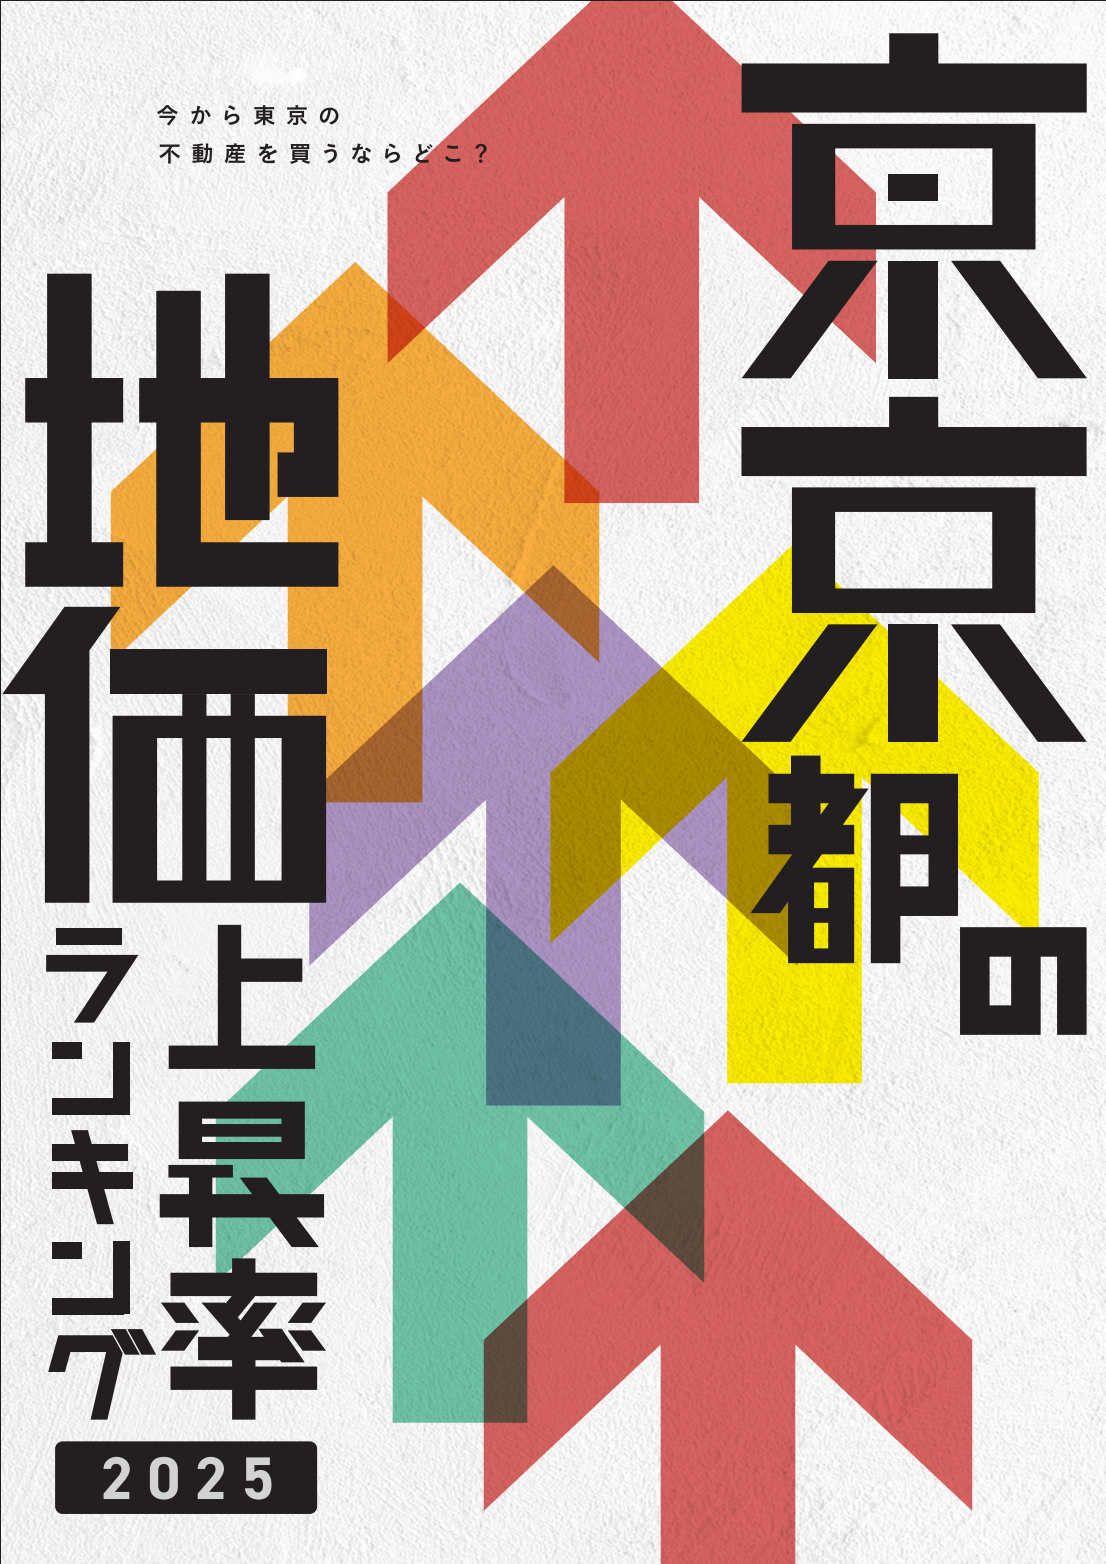
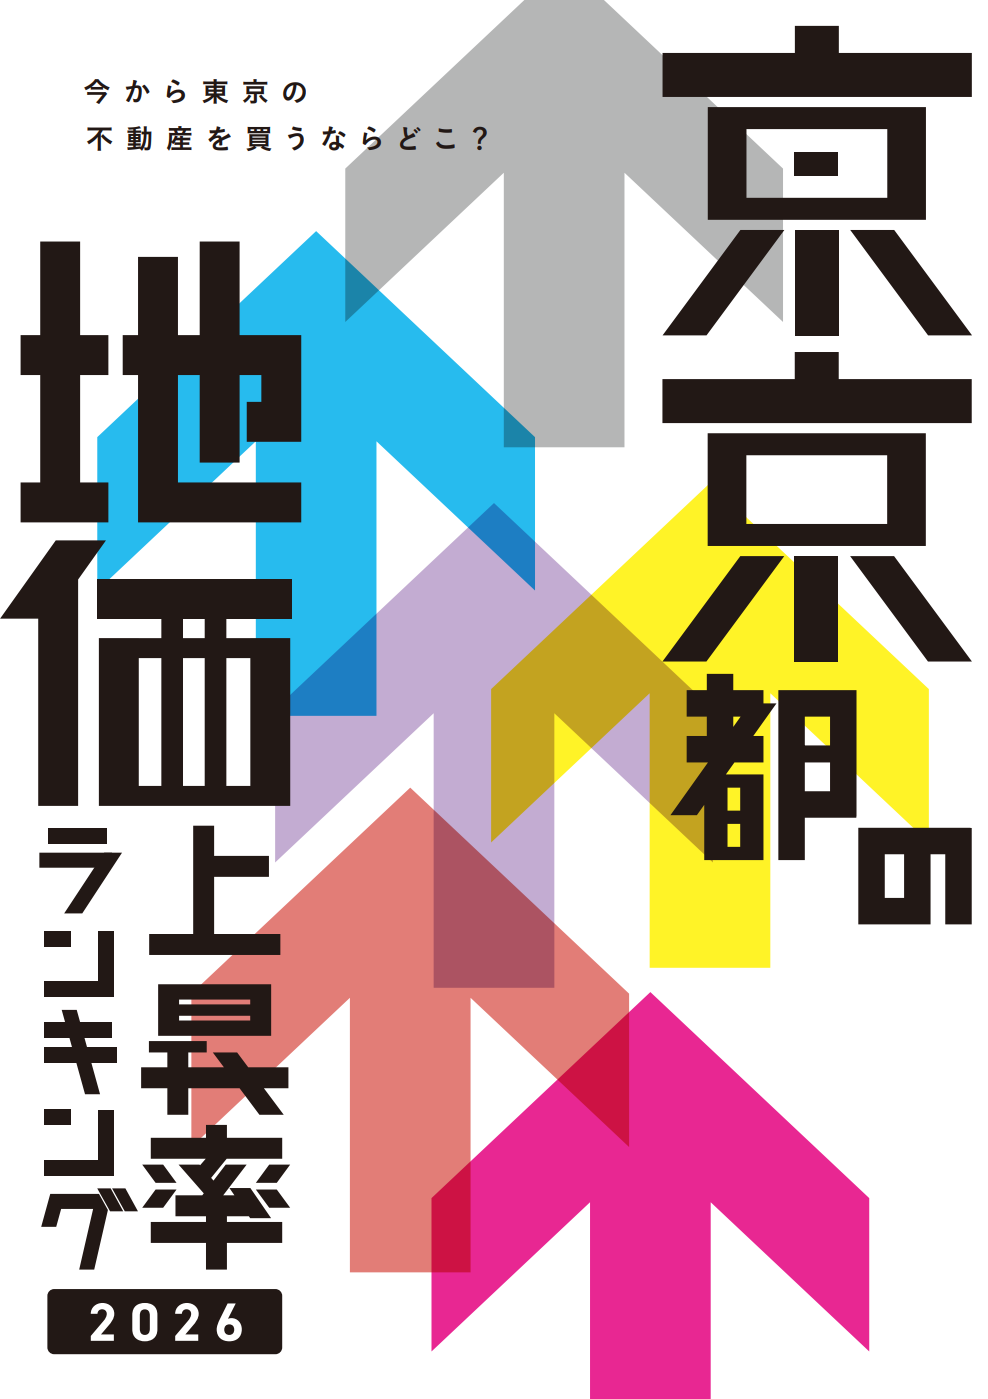
fix: update ebook viewer layout and styles for improved UI consistency

diff --git a/z_ebook/js/app.js b/z_ebook/js/app.js
@@ -6,9 +6,8 @@ const layoutHTML = `
         <div class="header-left">
             <button id="tocBtn" class="btn-icon" title="目次を開く">
                 <i class="fa-solid fa-list-ul"></i>
-                <span style="font-size:0.85rem; font-weight:bold;" class="desktop-only">目次</span>
             </button>
-            <div style="width: 1px; height: 16px; background: var(--border-color); margin: 0 8px;"></div>
+            <div class="header-divider"></div>
             <h1 class="header-title" id="bookTitle"></h1>
         </div>
         <div class="header-right">
@@ -26,18 +25,11 @@ const layoutHTML = `
                 <button data-size="lg" class="toggle-btn size-opt">大</button>
             </div>
         </div>
-        <div class="setting-group">
-            <span class="setting-label">表示モード</span>
-            <div class="toggle-group" style="gap:4px; padding:4px;">
-                <button id="viewModeTwo" class="toggle-btn active-dark" style="border-radius:4px;"><i class="fa-solid fa-book-open"></i> 見開き(2P)</button>
-                <button id="viewModeOne" class="toggle-btn" style="border-radius:4px;"><i class="fa-solid fa-file"></i> 単ページ(1P)</button>
-            </div>
-        </div>
     </div>
 
     <div id="tocDrawer" class="toc-drawer">
         <div class="toc-header">
-            <span><i class="fa-solid fa-book-bookmark" style="color:var(--accent-color);"></i> 目次</span>
+            <span><i class="fa-solid fa-book-bookmark toc-icon-color"></i> 目次</span>
             <button id="closeTocBtn" class="btn-icon"><i class="fa-solid fa-xmark"></i></button>
         </div>
         <div id="tocList" class="toc-list"></div>
@@ -97,8 +89,6 @@ window.addEventListener('DOMContentLoaded', async () => {
         pageSlider: document.getElementById('pageSlider'),
         prevBtn: document.getElementById('prevBtn'),
         nextBtn: document.getElementById('nextBtn'),
-        viewModeOne: document.getElementById('viewModeOne'),
-        viewModeTwo: document.getElementById('viewModeTwo'),
         settingsBtn: document.getElementById('settingsBtn'),
         settingsPanel: document.getElementById('settingsPanel'),
         sizeOpts: document.querySelectorAll('.size-opt'),
@@ -121,10 +111,7 @@ window.addEventListener('DOMContentLoaded', async () => {
         if (!response.ok) throw new Error('Network response was not ok');
         const rawData = await response.json();
 
-        // ヘッダーのタイトルを反映
         els.bookTitle.innerText = rawData.title;
-
-        // ブラウザのタイトルタグを自動で書き換える
         document.title = `${rawData.title} | JPリターンズ`;
 
         // 最終ページ（奥付）の自動生成
@@ -189,11 +176,7 @@ window.addEventListener('DOMContentLoaded', async () => {
 // レンダリング・表示切替ロジック
 // ========================================================
 function updateResponsiveViewMode() {
-    if (window.innerWidth < 768) {
-        viewMode = 'one';
-    }
-    els.viewModeOne.className = (viewMode === 'one') ? 'toggle-btn active-dark' : 'toggle-btn';
-    els.viewModeTwo.className = (viewMode === 'two') ? 'toggle-btn active-dark' : 'toggle-btn';
+    viewMode = window.innerWidth < 768 ? 'one' : 'two';
 }
 
 function renderPages(pageIndex) {
@@ -273,13 +256,6 @@ function prevPage() {
     }
 }
 
-const changeViewMode = (mode) => {
-    if (viewMode === mode) return;
-    viewMode = mode;
-    updateResponsiveViewMode();
-    renderPages(currentPage);
-};
-
 function populateToc() {
     els.tocList.innerHTML = ebookData.toc.map(item => `
         <button onclick="jumpToPage(${item.id})" class="toc-item">
@@ -319,9 +295,6 @@ function setupEventListeners() {
     els.nextBtn.addEventListener('click', nextPage);
     els.prevBtn.addEventListener('click', prevPage);
     els.pageSlider.addEventListener('input', (e) => renderPages(parseInt(e.target.value)));
-
-    els.viewModeOne.addEventListener('click', () => changeViewMode('one'));
-    els.viewModeTwo.addEventListener('click', () => changeViewMode('two'));
 
     els.settingsBtn.addEventListener('click', () => els.settingsPanel.classList.toggle('hidden'));
     els.sizeOpts.forEach(btn => {

diff --git a/z_ebook/css/style.css b/z_ebook/css/style.css
@@ -38,6 +38,7 @@ body {
     display: none !important;
 }
 
+
 /* ========================================================
         UIコンポーネント (ヘッダー, フッター, ボタンなど)
     ======================================================== */
@@ -65,7 +66,7 @@ body {
 .header-title {
     font-size: 0.85rem;
     font-weight: 600;
-    color: var(--heading-color);
+    color: var(--btn-bg);
     white-space: nowrap;
     overflow: hidden;
     text-overflow: ellipsis;
@@ -76,7 +77,22 @@ body {
 .header-right {
     display: flex;
     align-items: center;
-    gap: 0.5rem;
+}
+
+.header-divider {
+    width: 1px;
+    height: 16px;
+    background: var(--border-color);
+    margin: 0 8px;
+}
+
+.toc-text {
+    font-size: 0.85rem;
+    font-weight: bold;
+}
+
+.toc-icon-color {
+    color: var(--accent-color);
 }
 
 .btn-icon {
@@ -306,7 +322,6 @@ body {
 
 .page-content h2 {
     font-size: 1.3rem;
-    margin-top: 1.5rem;
     margin-bottom: 1rem;
     border-left: 5px solid var(--accent-color);
     padding-left: 0.75rem;
@@ -631,9 +646,10 @@ body.ui-hidden .nav-btn {
 }
 
 .colophon-top .colophon-thumb {
-    width: 60px;
+    width: 50px;
     height: auto;
     margin: 0 auto;
+    border: 0px;
 }
 
 .colophon-divider {
@@ -654,7 +670,7 @@ body.ui-hidden .nav-btn {
 
 @media (max-width: 640px) {
     .main-content {
-        padding: 0.5rem;
+        padding: 0 0.5rem;
     }
 
     .page-content {
@@ -667,11 +683,7 @@ body.ui-hidden .nav-btn {
         font-size: 1rem;
     }
 
-    .header-title {
-        max-width: 150px;
-    }
-
     .slider-container {
-        margin: 0 1rem;
+        margin: 0rem;
     }
 }

diff --git a/z_ebook/book_A/index.html b/z_ebook/book_A/index.html
@@ -4,21 +4,14 @@
 <head>
     <meta charset="UTF-8">
     <meta name="viewport" content="width=device-width, initial-scale=1.0">
-    <title>電子書籍ビューア</title>
+    <title>ebook | JPリターンズ</title>
     <!-- 共通フォント・アイコン -->
-    <link rel="preconnect" href="https://fonts.googleapis.com">
-    <link rel="preconnect" href="https://fonts.gstatic.com" crossorigin>
-    <link href="https://fonts.googleapis.com/css2?family=Shippori+Mincho:wght@400;600;700&display=swap" rel="stylesheet">
     <link rel="stylesheet" href="https://cdnjs.cloudflare.com/ajax/libs/font-awesome/6.4.0/css/all.min.css">
-
     <!-- 共通のCSS -->
     <link rel="stylesheet" href="../css/style.css">
 </head>
 
 <body>
-    <!-- 共通のUIパーツ(ヘッダーやフッター等)は app.js が自動でここに流し込みます -->
-
-    <!-- 共通のJavaScript -->
     <script src="../js/app.js"></script>
 </body>
 
